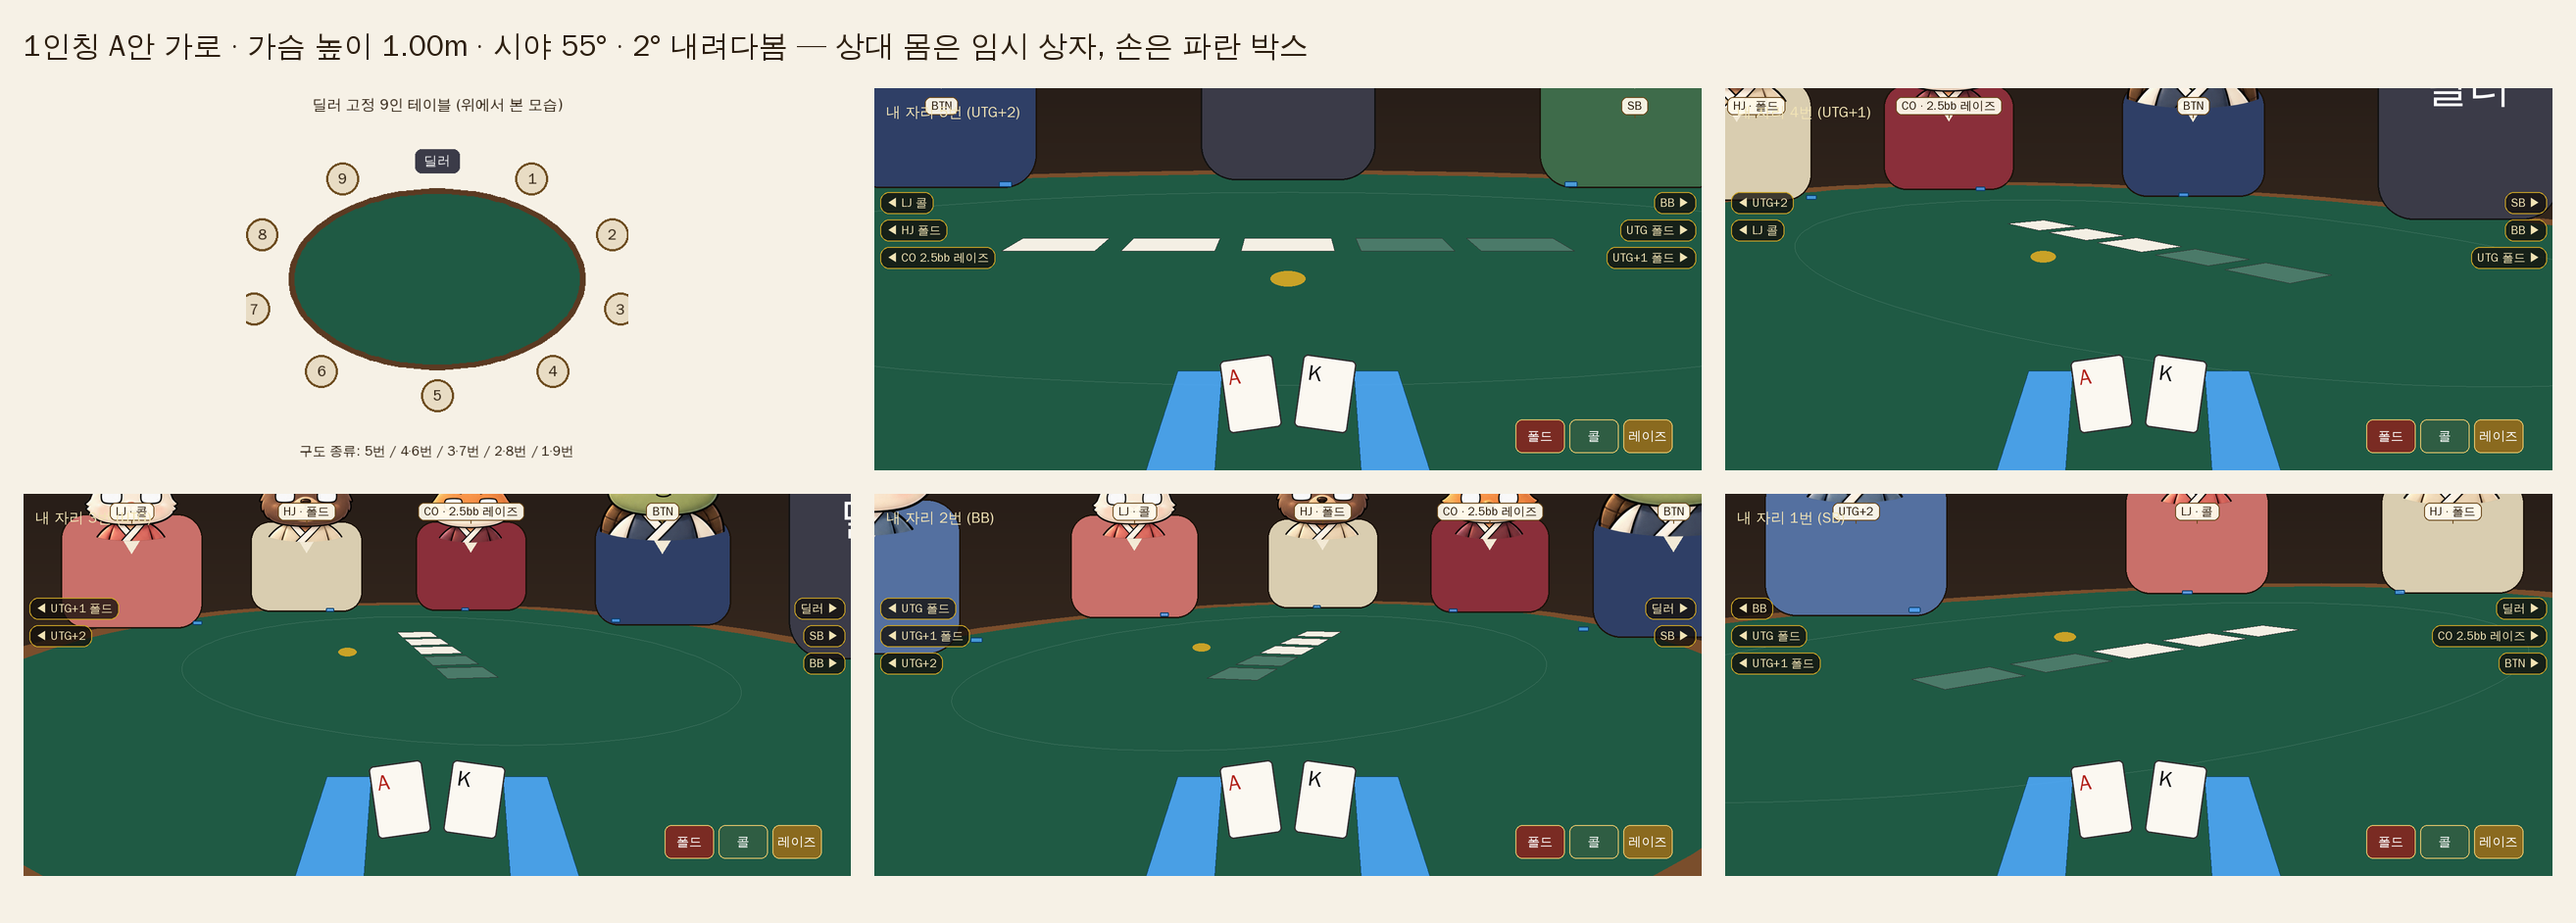
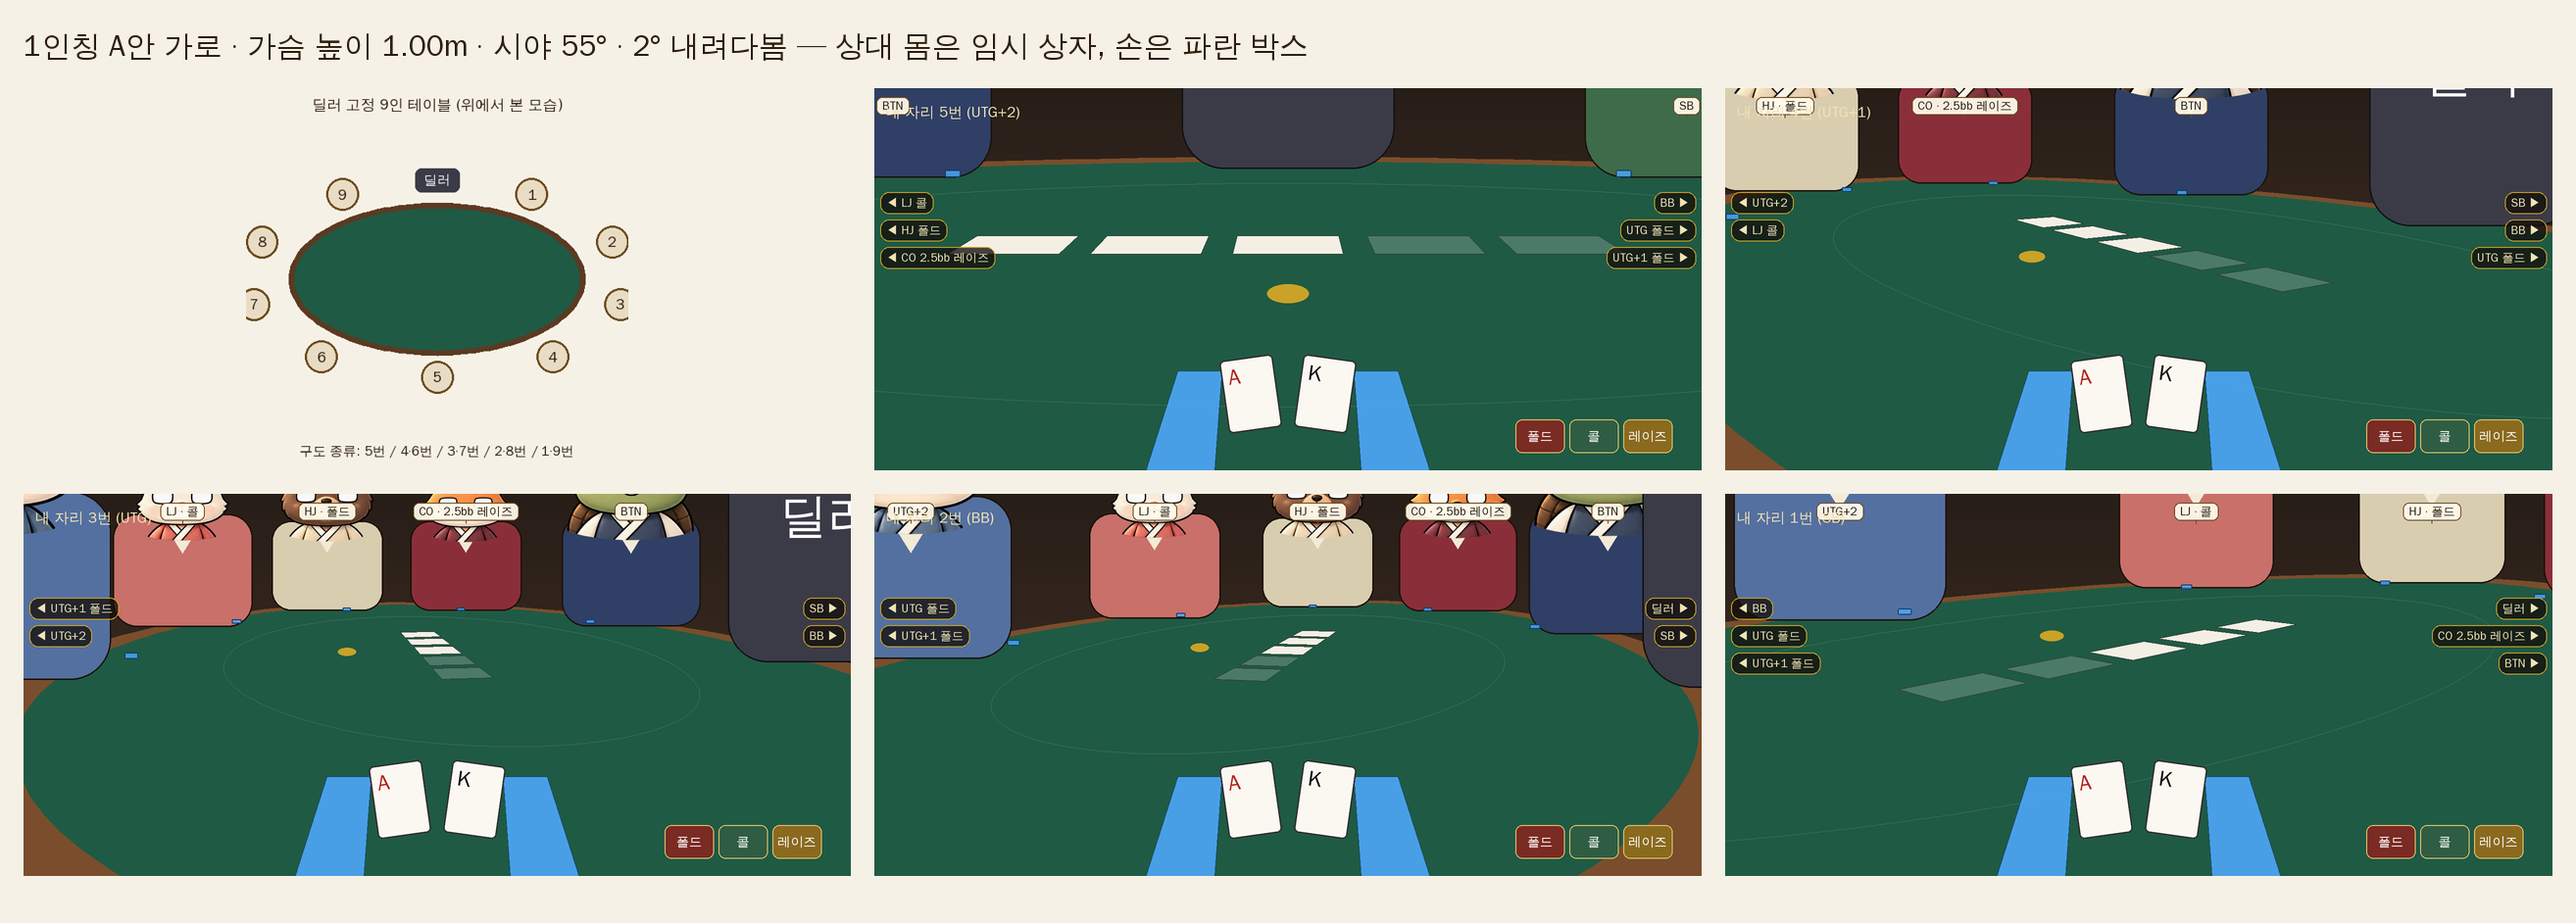
연출: 테이블 얇게(B 0.95→0.80), 캐릭터별 손 색, 테이블 캐릭터 그림 주문서
Claude-Session: https://claude.ai/code/session_014gnh3zwyD3zScd7LNNcYoQ

diff --git a/ui/web/proto/motions.js b/ui/web/proto/motions.js
@@ -13,6 +13,8 @@ let vt = 0;
 const clock = () => MANUAL ? vt : performance.now();
 const INK = 0x2a1a10;
 const TOP = 0.75;
+// 테이블 세로 반축(내 쪽↔맞은편). 2026-10-26 사용자: 더 얇게. 0.95 → 0.80. ?tb= 로 바꿔 볼 수 있다.
+const TB = Number(Q.get('tb') || 0.80);
 
 // ---------- 렌더러 / 장면 ----------
 const canvas = document.getElementById('c');
@@ -27,7 +29,7 @@ scene.background = new THREE.Color(0x1d2238);
 // 카메라: 사양 2장 — 가슴 높이 1.0m, 가로 시야 55°. '가까이'는 동작 확인용.
 const cam = new THREE.PerspectiveCamera(30, 1, 0.01, 30);
 const VIEWS = {
-  fp:    { pos: [0, 1.0, 0.30],  at: [0, TOP, -0.9],   hfov: 55 },
+  fp:    { pos: [0, 1.0, 0.30],  at: [0, TOP, -0.9 * TB / 0.95 - 0.05],   hfov: 55 },
   close: { pos: [0.02, 1.13, 0.0], at: [0.03, TOP, -0.36], hfov: 55 },
 };
 let view = 'fp';
@@ -82,17 +84,19 @@ function canvasTex(w, h, draw) {
 const FELT_C = 0x1f5a44;
 {
   const felt = new THREE.Mesh(new THREE.CircleGeometry(1, 96), toon(FELT_C));
-  felt.rotation.x = -Math.PI / 2; felt.scale.set(1.55, 0.95, 1); felt.position.set(0, TOP, -0.95);
+  felt.rotation.x = -Math.PI / 2; felt.scale.set(1.55, TB, 1); felt.position.set(0, TOP, -TB);
   felt.receiveShadow = true; scene.add(felt);
   const line = new THREE.Mesh(new THREE.RingGeometry(0.60, 0.606, 96),
     new THREE.MeshBasicMaterial({ color: 0xffffff, transparent: true, opacity: 0.18 }));
-  line.rotation.x = -Math.PI / 2; line.scale.set(1.55, 0.95, 1); line.position.set(0, TOP + 0.0005, -0.95);
+  line.rotation.x = -Math.PI / 2; line.scale.set(1.55, TB, 1); line.position.set(0, TOP + 0.0005, -TB);
   scene.add(line);
   const rail = outlined(new THREE.TorusGeometry(1, 0.055, 12, 120), toon(0x6b4426), 1.03);
-  rail.rotation.x = -Math.PI / 2; rail.scale.set(1.58, 0.98, 1); rail.position.set(0, TOP + 0.01, -0.95);
+  rail.rotation.x = -Math.PI / 2; rail.scale.set(1.58, TB + 0.03, 1); rail.position.set(0, TOP + 0.01, -TB);
   scene.add(rail);
   // 맞은편 상대 몸통(임시) — 1인칭 구도에서 위치감만 준다
-  [[-0.95, -1.35, 0xc9706a], [-0.35, -1.75, 0xd9cdb0], [0.35, -1.75, 0x8a2f3a], [0.95, -1.35, 0x2f3f66]].forEach(([x, z, c]) => {
+  // 깊이를 테이블 세로 반축에 맞춰 줄인다(원래 0.95 기준 좌표)
+  [[-0.95, -1.35, 0xc9706a], [-0.35, -1.75, 0xd9cdb0], [0.35, -1.75, 0x8a2f3a], [0.95, -1.35, 0x2f3f66]].forEach(([x, z0, c]) => {
+    const z = -TB + (z0 + 0.95) * TB / 0.95;
     const b = outlined(new THREE.BoxGeometry(0.42, 0.42, 0.18), toon(c), 1.03);
     b.position.set(x, TOP + 0.19, z); b.lookAt(0, TOP + 0.19, 0.3); scene.add(b);
   });
@@ -205,9 +209,22 @@ resetChips();
 
 // ---------- 손 (HandRig — 임시 상자) ----------
 // 몸체만 바꾸면 그림/3D 모델로 교체된다. 동작은 손 그룹의 위치·회전만 움직인다.
+// 캐릭터별 손(피부·털)과 소매 색. 순서는 assets/portraits 와 같다.
+const CHARS = [
+  ['갓 남자', 0xf2c2a6, 0x5f8a6a], ['땋은머리 여자', 0xf2cdb0, 0xe9dcc4], ['머리띠 남자', 0xf2c2a6, 0xe3b84f],
+  ['호랑이', 0xf08a3c, 0x5f8a6a], ['크림 강아지', 0xf3e6cf, 0x5d78a0], ['토끼', 0xf6eee6, 0xe2786a],
+  ['곰', 0x7a4a2c, 0xe9dcc4], ['여우', 0xe8823a, 0x7a2e36], ['거북이', 0x8fa060, 0x3e5a8a],
+];
+let charIdx = Math.max(0, Math.min(8, Number(Q.get('char') || 9) - 1));
+const handSkin = toon(CHARS[charIdx][1]), handSleeve = toon(CHARS[charIdx][2]);
+function setChar(i) {
+  charIdx = (i + 9) % 9;
+  handSkin.color.setHex(CHARS[charIdx][1]); handSleeve.color.setHex(CHARS[charIdx][2]);
+  const b = document.querySelector('[data-act="char"]'); if (b) b.textContent = '손: ' + CHARS[charIdx][0];
+}
 function makeHand(side) {
   const g = new THREE.Group();
-  const skin = toon(0x5aa6e8), sleeve = toon(0x2f3f66);
+  const skin = handSkin, sleeve = handSleeve;
   const palm = outlined(new THREE.BoxGeometry(0.072, 0.022, 0.080), skin, 1.08);
   const fingers = outlined(new THREE.BoxGeometry(0.066, 0.016, 0.040), skin, 1.1);
   fingers.position.set(0, -0.004, -0.058);
@@ -534,6 +551,7 @@ const ACTS = {
   protector: () => run(() => protOn ? protectorOff() : protectorOn()), fold: () => run(fold),
   shuffle: () => run(shuffle), bet: () => run(() => pushChips(4)), allin: () => run(() => allIn(false)),
   allin_s: () => run(() => allIn(true)), chipreset: () => run(chipReset), check: () => run(check),
+  char: () => setChar(charIdx + 1),
   style: () => { const i = CHECK_STYLES.findIndex(x => x[0] === checkStyle); setCheckStyle(CHECK_STYLES[(i + 1) % CHECK_STYLES.length][0]); },
 };
 document.querySelectorAll('[data-act]').forEach(b => b.addEventListener('click', () => {

diff --git a/ui/web/proto/motions.html b/ui/web/proto/motions.html
@@ -41,6 +41,7 @@
   <div class="grp">
     <button data-act="check" class="hot">체크</button>
     <button data-act="style">체크: 톡톡</button>
+    <button data-act="char">손: 거북이</button>
   </div>
   <div class="sep"></div>
   <div class="grp">

diff --git a/docs/presentation/mockup_render.py b/docs/presentation/mockup_render.py
@@ -4,6 +4,7 @@ P=os.path.join(os.path.dirname(os.path.abspath(__file__)),'..','..','ui','web','
 FONT='/usr/share/fonts/truetype/wqy/wqy-zenhei.ttc'
 f=lambda s: ImageFont.truetype(FONT,s)
 A,B,TH=1.55,0.95,0.75          # table semi-axes (m), table height
+B=float(os.environ.get('TB',0.80))  # 테이블 세로 반축(내 쪽↔맞은편). 2026-10-26 사용자: 더 얇게 → 0.68
 EYE=1.22; HFOV=80
 import os as _o; HFOV=float(_o.environ.get('HFOV',HFOV))
 import sys as _s
@@ -65,6 +66,7 @@ def render(hero):
         if not base or not top or not (-0.15*W*SC< base[0] < 1.15*W*SC): off.append((kind,k,x,z)); continue
         if base[0]<0 or base[0]>W*SC: off.append((kind,k,x,z))
         items_z=base[2]; vis.append((items_z,kind,k,base,top,x,z))
+    print('hero',hero,'visible',sorted([(k if k else 'D') for _,kind,k,base,*_ in vis if 0<=base[0]<=W*SC],key=str))
     bubbles=[]
     for zz,kind,k,base,top,x,z in sorted(vis,reverse=True):
         h=base[1]-top[1]
@@ -141,4 +143,4 @@ cells=[tm]+views
 for i,v in enumerate(cells):
     r,c=divmod(i,cols); x=G+c*(W+G)+((W-v.width)//2 if v is tm else 0); out.paste(v,(x,90+r*(H+G)))
 d.text((G,28),'1인칭 A안 가로 · 가슴 높이 %.2fm · 시야 %d° · %d° 내려다봄 — 상대 몸은 임시 상자, 손은 파란 박스'%(EYE,HFOV,-PITCH),font=f(30),fill='#2b1d0e')
-out.save('fp_A_chest.png'); print(out.size)
+out.save(os.environ.get('OUT','fp_A_chest.png')); print(out.size)

diff --git a/docs/TABLE_ART_PROMPTS.md b/docs/TABLE_ART_PROMPTS.md
@@ -1,0 +1,126 @@
+# 1인칭 테이블 캐릭터 그림 주문서 (Gemini용, 2026-10-26)
+
+`docs/presentation-spec.md` 4장(상대 표시)과 7장(내 손)에 들어갈 캐릭터 그림을 주문하는 문서다.
+라운지 주문서(`docs/LOUNGE_ART_PROMPTS.md`)와 같은 방식으로 진행한다: 기준 그림 한 장을 먼저 만들고, 그 그림을 첨부해 "이것만 바꿔" 로 고친다.
+
+## 무엇을 그림으로, 무엇을 코드로
+
+| 대상 | 방식 | 이유 |
+|---|---|---|
+| **상대 상반신과 손** | **2D 그림** (사용자가 Gemini 로 만든다) | 상대는 테이블 너머에 세운 판이다. 손 동작은 자세 그림 몇 장을 바꿔 끼우고 살짝 움직여서 만든다 |
+| **내 손** | **3D 로우폴리** (코드로 만든다, 그림 필요 없음) | 내 손은 카드를 들추고 칩을 집는 등 각도가 계속 바뀐다. 2D 그림으로는 동작마다 수십 장이 필요하다. 캐릭터별 털·피부 색, 소매 색, 무늬(호랑이 줄무늬 등)를 코드로 입힌다 |
+
+## 캐릭터 9명 (순서는 `ui/web/assets/portraits/01~09.png`)
+
+| 번호 | 캐릭터 | 손(피부·털) | 소매(저고리) | 손 특징 |
+|---|---|---|---|---|
+| 01 | 갓 쓴 남자 | 살구색 | 초록 | 사람 손 |
+| 02 | 땋은 머리 여자 | 살구색 | 크림(분홍 고름) | 사람 손, 가는 손가락 |
+| 03 | 머리띠 남자 | 살구색 | 노랑 | 사람 손 |
+| 04 | 호랑이 | 주황 + 검은 줄무늬 | 초록 | 둥근 앞발, 발등에 줄무늬 |
+| 05 | 크림 강아지 | 크림 | 파랑 | 둥근 앞발 |
+| 06 | 토끼 | 흰색 | 분홍빛 빨강 | 작고 둥근 앞발 |
+| 07 | 곰 | 갈색 | 크림 | 크고 두툼한 앞발 |
+| 08 | 여우 | 주황, 발끝은 진한 갈색 | 자주 | 가는 앞발, 발끝만 색이 다름 |
+| 09 | 거북이 | 초록 | 남색 | 사람 손 모양에 비늘 무늬 |
+
+색은 초상화에서 뽑은 값이다. 내 손 3D 의 색도 같은 표를 쓴다(`ui/web/proto/motions.js` 의 `CHARS`).
+
+## 공통 지시문 (모든 요청 끝에 붙인다)
+
+```
+[공통 규칙]
+- 첨부한 그림의 캐릭터와 똑같은 캐릭터로 그려 줘(얼굴, 옷, 색, 선 굵기, 그림체 그대로).
+- 정면에서, 눈높이에서 본 모습. 허리부터 머리까지만, 한 명만.
+- 앞에 보이지 않는 테이블이 허리 높이에 있다고 생각하고, 팔꿈치와 손은 그 테이블 윗면 높이에 둬.
+- 테이블, 카드, 칩, 의자 같은 물건은 그리지 마(요청에서 따로 말한 것만 그려).
+- 배경은 완전히 흰색 단색. 그림자, 글자 없이.
+- 가로 4:3 비율. 캐릭터 크기와 위치는 첨부한 그림과 똑같이.
+```
+
+- **머리까지 그리게 하는 이유:** 이미지 AI 는 머리 없는 몸을 잘 못 그린다. 머리까지 그리게 하고, 목에서 자르는 일은 내가 한다. 게임에서는 얼굴이 화면 밖이라 안 보인다.
+- 테이블을 그리지 않는 이유: 테이블은 3D 장면에 있고, 그림은 그 뒤에 세운다. 테이블 윗면 높이에서 아래는 테이블에 가려진다.
+
+## 진행 순서와 장수
+
+**한 캐릭터(거북이 추천: 손 모양이 사람에 가까워 기준 잡기 쉽다)의 1단계 3장을 먼저 보내 주면** 내가 잘라서 시제품 테이블에 세워 보고, 괜찮으면 나머지 8명을 이어 간다.
+
+| 단계 | 자세 | 캐릭터당 | 9명 | 쓰임 |
+|---|---|---|---|---|
+| 1단계 (필수) | ① 대기 ② 한 손 뻗기 ③ 두 손 뻗기 | 3장 | 27장 | ① 평소 ② 콜·벳·레이즈·폴드·체크(움직임으로 구분) ③ 올인 |
+| 2단계 | ④ 손끝으로 톡톡 ⑤ 카드 뒤집기 ⑥ 팟 끌어오기 | 3장 | 27장 | 체크, 쇼다운, 승리를 따로 보여 줌 |
+| 3단계 (선택) | ⑦ 팔짱 ⑧ 칩 셔플 | 2장 | 18장 | 체크 스타일 '팔짱', 셔플 버튼을 상대에게 보여 줌 |
+
+1단계만 있어도 모든 액션이 돌아간다. 체크는 ② 를 작게 내렸다 올리는 움직임으로, 폴드는 ② 와 카드 날아가는 연출로 대신한다.
+
+---
+
+## 1단계 (캐릭터당 3장)
+
+### ① 기준 그림: 대기 — `거북이_대기`
+
+초상화 `09.png` 를 첨부하고:
+
+```
+이 캐릭터의 허리 위 상반신을 그려 줘. 두 팔은 앞으로 내려 팔꿈치를 몸 옆에 두고, 두 손은 몸 앞 테이블 높이에 가볍게 모아 둔 모습. 손에는 아무것도 들지 않은 상태. 차분한 표정.
+[공통 규칙]
+```
+
+이 그림이 나머지 모든 그림의 기준이다. 마음에 들 때까지 이것만 다시 뽑는다. 이후 요청은 모두 **이 기준 그림을 첨부**한다.
+
+### ② 한 손 뻗기 — `거북이_한손`
+
+```
+첨부한 그림에서 오른팔만 바꿔 줘. 오른손을 테이블 위 앞쪽(보는 사람 쪽)으로 쭉 뻗어 손바닥을 아래로, 무언가를 앞으로 미는 모습. 왼손과 몸, 얼굴은 그대로.
+[공통 규칙]
+```
+
+- 캐릭터의 오른손은 보는 사람 기준 **왼쪽**이다. 헷갈려서 반대 손을 뻗으면 그대로 받아도 된다(좌우 뒤집어 쓴다).
+
+### ③ 두 손 뻗기 — `거북이_두손`
+
+```
+첨부한 그림에서 두 팔을 바꿔 줘. 두 손을 테이블 위 앞쪽(보는 사람 쪽)으로 쭉 뻗어, 앞에 있는 것을 두 손으로 감싸 미는 모습. 몸과 얼굴은 그대로.
+[공통 규칙]
+```
+
+## 2단계 (캐릭터당 3장)
+
+### ④ 톡톡 — `거북이_톡톡`
+```
+첨부한 그림에서 오른손만 바꿔 줘. 오른손을 몸 앞 테이블 높이에 두고, 검지만 펴서 테이블을 톡 두드리는 모습.
+[공통 규칙]
+```
+
+### ⑤ 카드 뒤집기 — `거북이_뒤집기`
+```
+첨부한 그림에서 오른손만 바꿔 줘. 오른손을 몸 앞 테이블 높이에서 손바닥이 위를 보도록 뒤집으며 무언가를 펼쳐 보이는 모습. 카드는 그리지 마.
+[공통 규칙]
+```
+
+### ⑥ 팟 끌어오기 — `거북이_끌어오기`
+```
+첨부한 그림에서 두 팔을 바꿔 줘. 두 팔을 테이블 위 앞쪽으로 넓게 벌려 뻗었다가 몸 쪽으로 무언가를 끌어 모으는 모습. 기분 좋은 표정.
+[공통 규칙]
+```
+
+## 3단계 (선택)
+
+### ⑦ 팔짱 — `거북이_팔짱`
+```
+첨부한 그림에서 두 팔을 바꿔 줘. 테이블 높이에서 두 팔뚝을 앞으로 포개 팔짱을 낀 모습(오른팔이 위). 오른손 끝이 왼팔 위에 놓여 있다.
+[공통 규칙]
+```
+
+### ⑧ 칩 셔플 — `거북이_셔플`
+```
+첨부한 그림에서 오른손만 바꿔 줘. 오른손을 몸 앞 테이블 높이에 두고, 손끝으로 작은 원판 더미 두 개를 섞는 모습. 원판은 빨강과 남색, 손가락 사이에 작게.
+[공통 규칙]
+```
+
+## 받은 뒤 내가 하는 일
+
+1. 흰 배경을 지우고(`art/tools/cutout_white.py`), 원본은 `art/sources/table/` 에 WebP 로, 자른 것은 `art/cutouts/table/<번호>_<자세>.png` 로 둔다.
+2. 목 바로 아래에서 자른다. 자르는 높이는 ① 기준으로 캐릭터마다 한 번 정하고, 같은 캐릭터의 다른 자세에도 그대로 쓴다.
+3. ① 과 다른 자세의 몸 위치가 어긋나면 어깨선을 기준으로 맞춘다.
+4. 시제품 테이블에 세워 자리별 구도에서 확인하고, 스크린샷을 보낸다.
